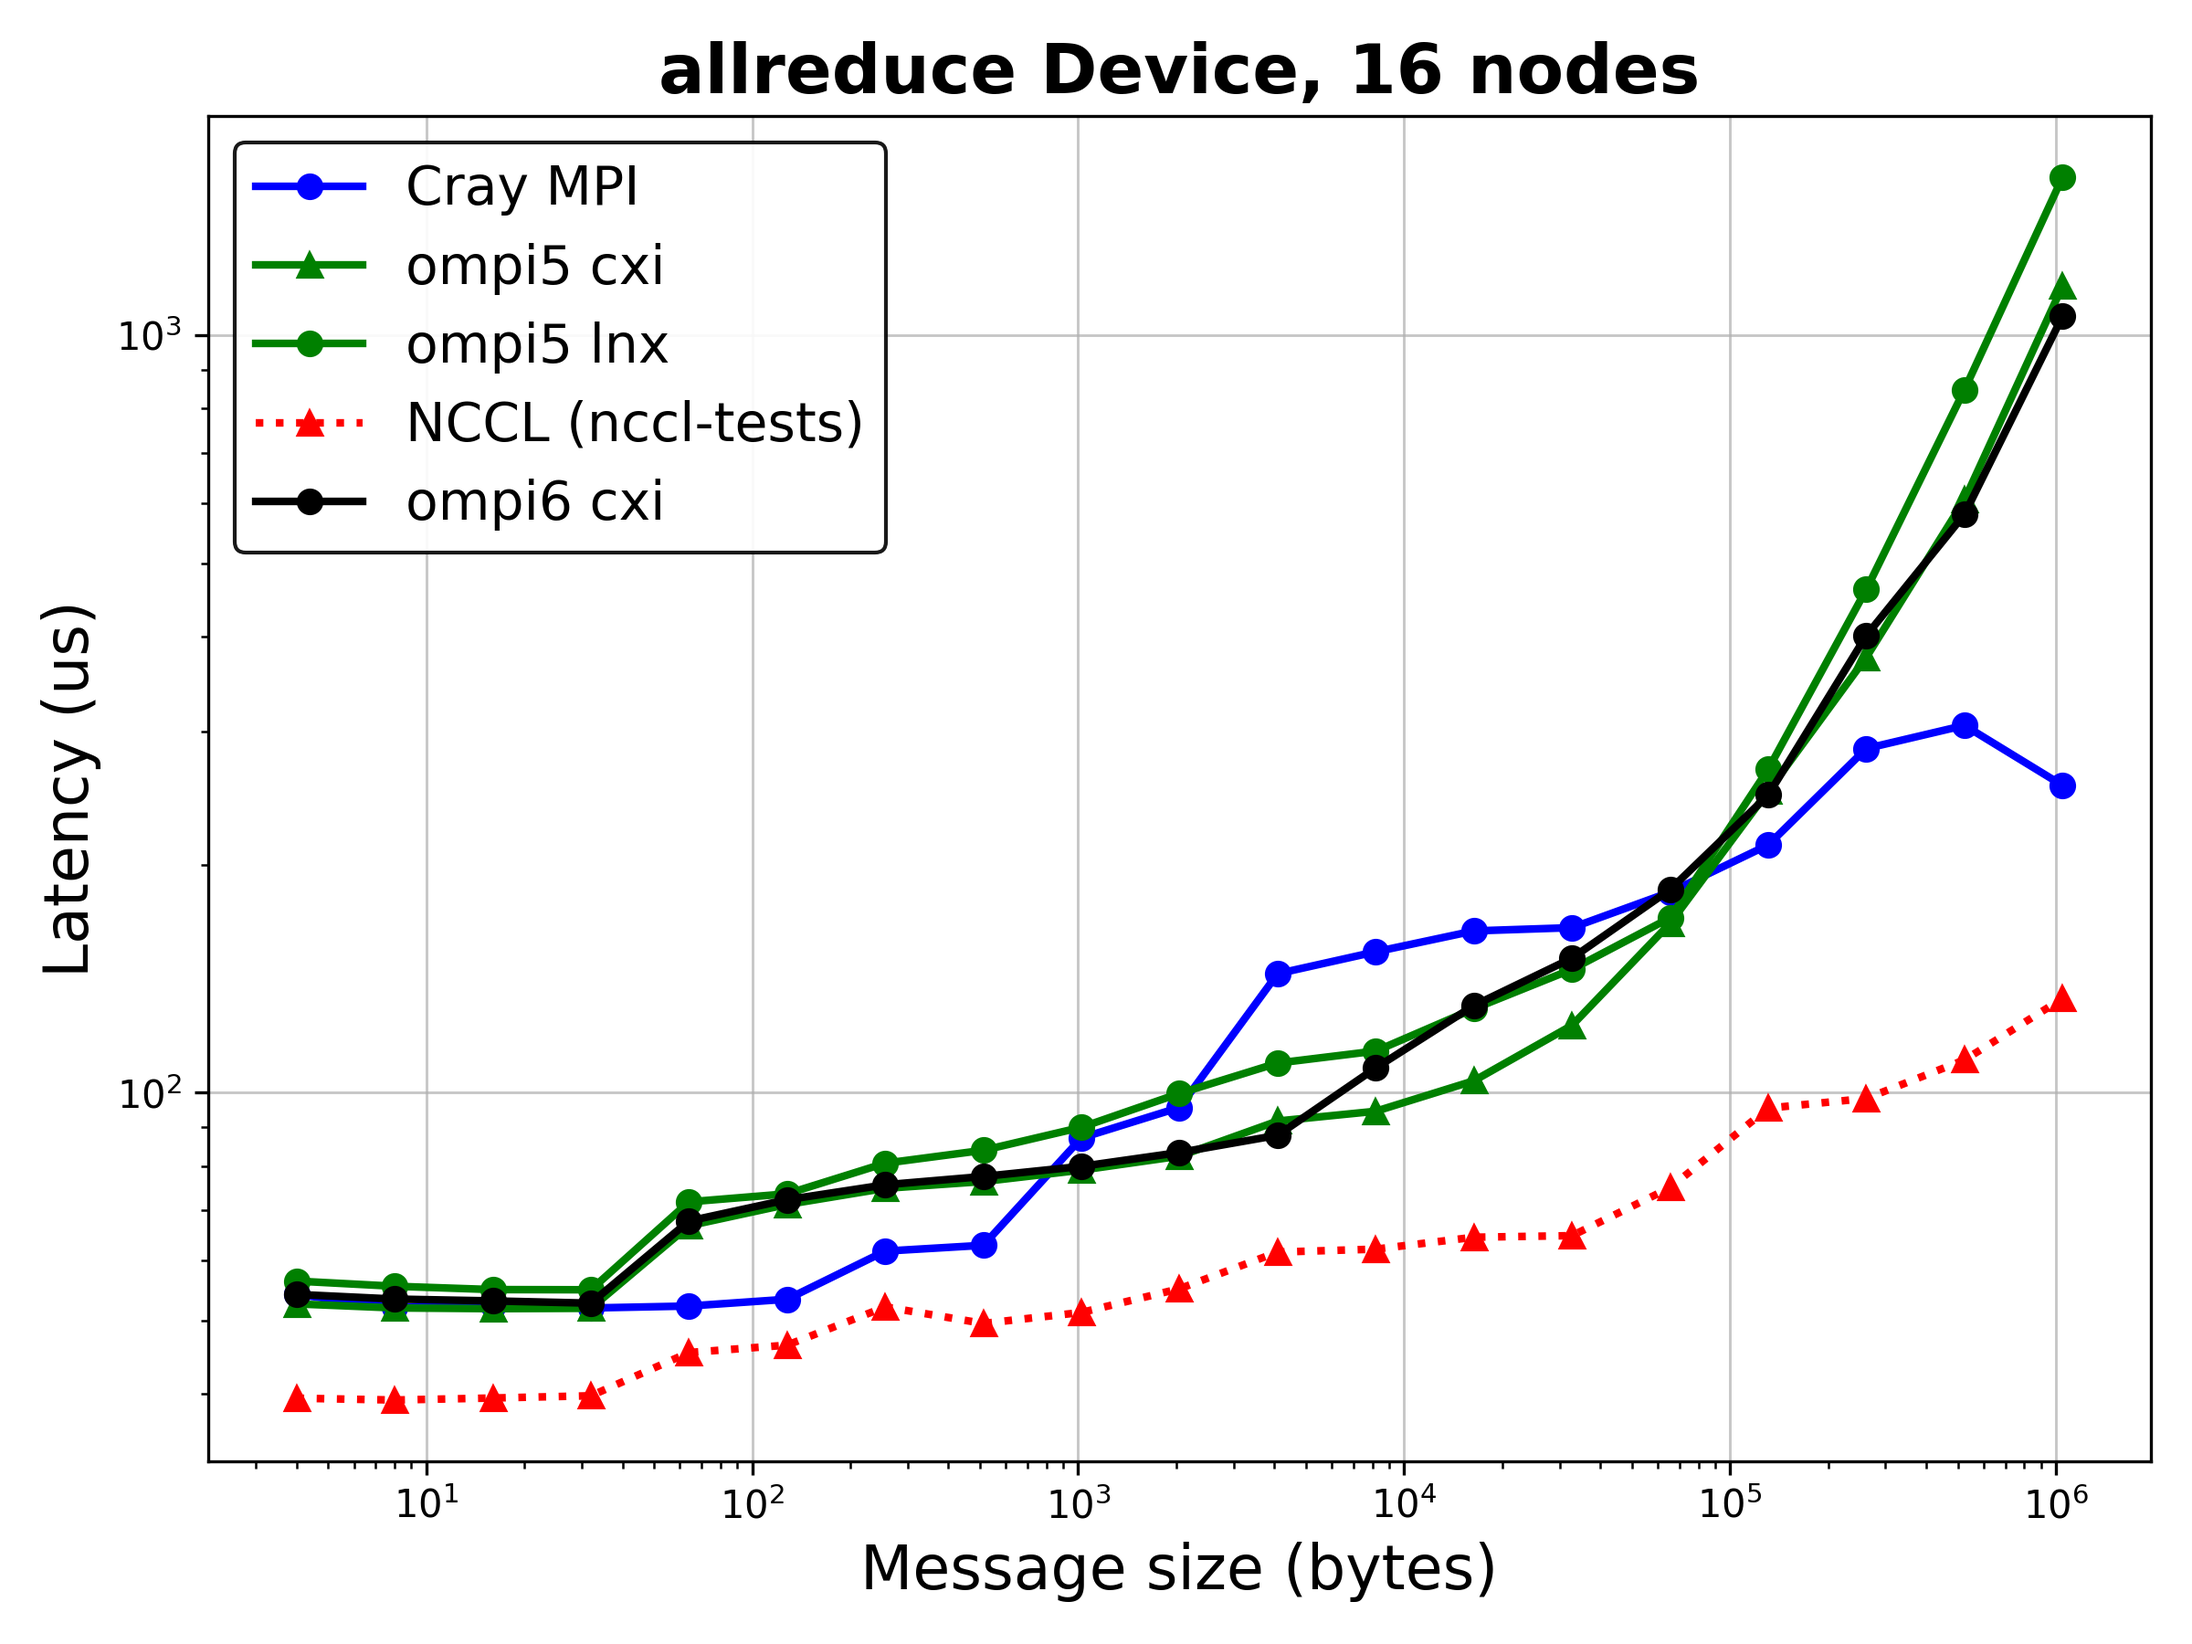
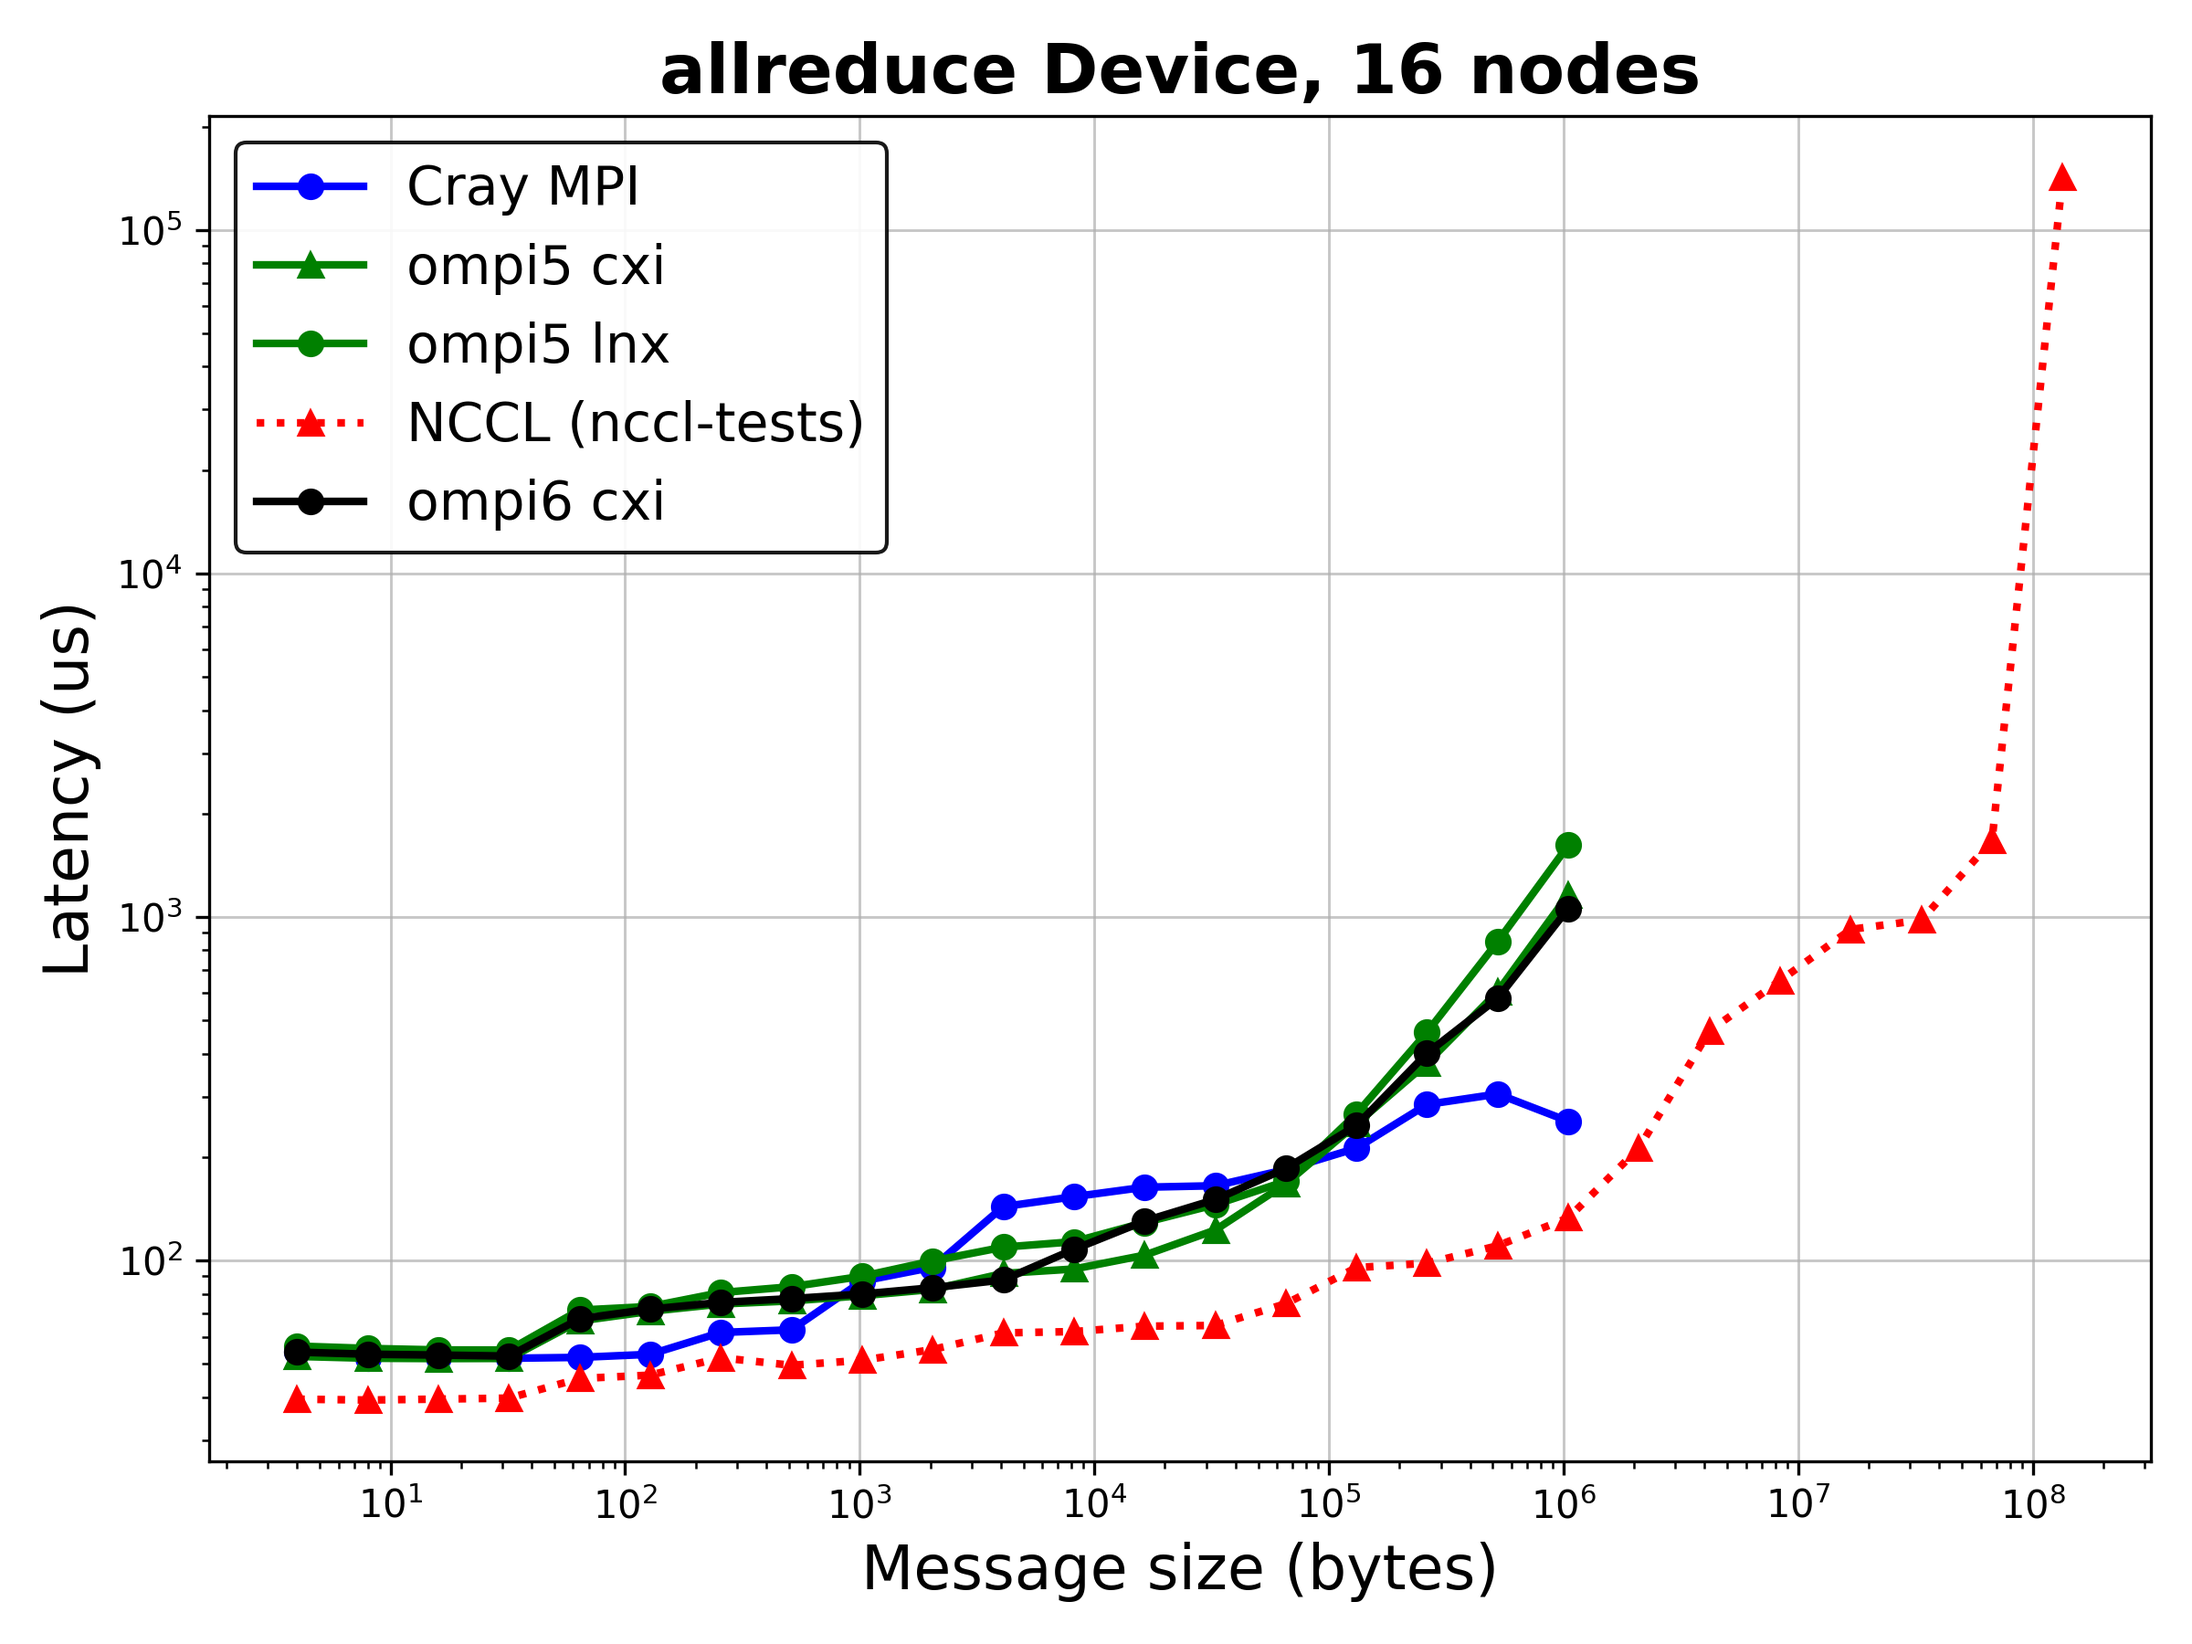
Remove limit on XCCL tests

diff --git a/plots/plot.py b/plots/plot.py
@@ -66,8 +66,8 @@ def parse_nccl_file(path):
 
             sizes.append(size)
             values.append(time_us)
-            if size >= 1048576:
-                break
+#            if size >= 1048576:
+#                break
 
     quantity = "Latency"
     unit = "us"
